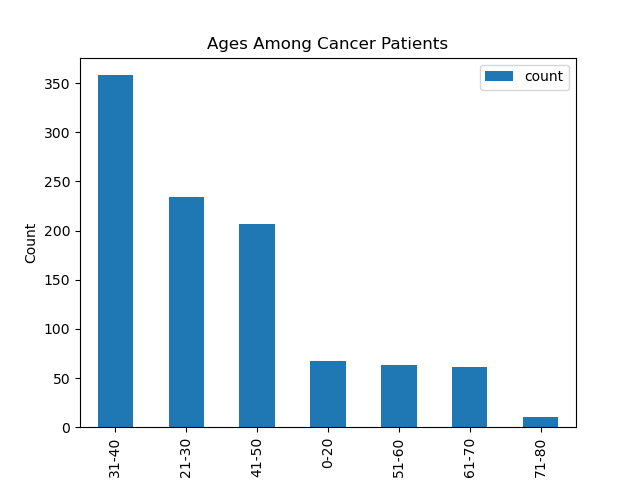
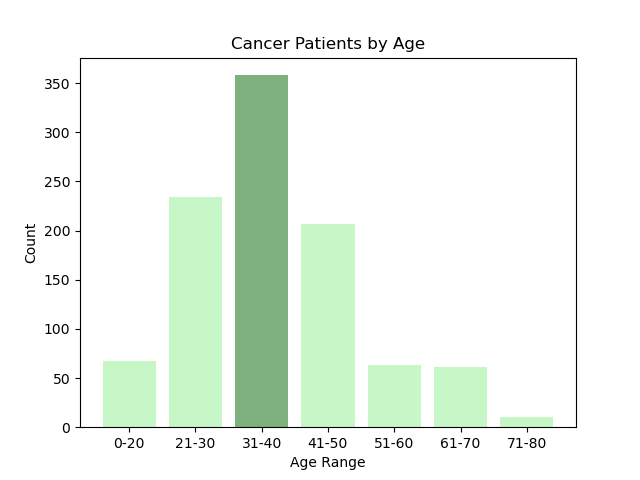
updated files

diff --git a/javascript/code.js b/javascript/code.js
@@ -1,3 +1,4 @@
+// Add Event Listener to open and read Excel sheet
 document.getElementById('fileInput').addEventListener('change', function(e) {
     var file = e.target.files[0];
     var reader = new FileReader();
@@ -9,8 +10,11 @@ document.getElementById('fileInput').addEventListener('change', function(e) {
         var firstSheet = workbook.Sheets[workbook.SheetNames[0]];
         var sheetData = XLSX.utils.sheet_to_json(firstSheet, {header: 1});
 
+        // Creating Bar Chart
+        // Extract "Age" column for data analysis
         var ages = sheetData.slice(1).map(row => row[1]);
 
+        // Create bins
         var ageBins = {
             '0-19': 0,
             '20-29': 0,
@@ -23,6 +27,7 @@ document.getElementById('fileInput').addEventListener('change', function(e) {
             '90-99': 0
         };
 
+        // Loop through the data in the "Age" Column and sort them into the bins
         ages.forEach(age => {
             if (age >= 0 && age <= 19) ageBins['0-19']++;
             else if (age >= 20 && age <= 29) ageBins['20-29']++;
@@ -35,10 +40,13 @@ document.getElementById('fileInput').addEventListener('change', function(e) {
             else if (age >= 90 && age <= 99) ageBins['90-99']++;
         });
 
+        // Extract the keys and values to prepare the data for Chart.js
         var labels = Object.keys(ageBins);
         var data = Object.values(ageBins);
 
+        // Creating the chart
         var ctx = document.getElementById('ageChart').getContext('2d')
+        // Building the Chart
         var ageChart = new Chart(ctx, {
             type: 'bar',
             data: {
@@ -57,6 +65,143 @@ document.getElementById('fileInput').addEventListener('change', function(e) {
                         beginAtZero: true
                     }
                 }
+            }
+        });
+
+        // Creating pie charts
+        // Extract the "Obesity" column for data analysis
+        var obesity = sheetData.slice(1).map(row => row[10]);
+
+        // Counting the occurrences of each obesity category
+        var obesityCounts = {};
+        
+        obesity.forEach(ob => {
+            if (obesityCounts[ob]) {
+                obesityCounts[ob]++;
+            } else {
+                obesityCounts[ob] = 1;
+            }
+        });
+
+        // Extract the keys and values to prepare the data for the chart
+        var obesityLabels = Object.keys(obesityCounts);
+        var obesityData = Object.values(obesityCounts);
+
+        // Building the pie chart
+        var obesityCtx = document.getElementById('obesityChart').getContext('2d');
+        var obesityChart = new Chart(obesityCtx, {
+            type: 'pie',
+            data: {
+                labels: obesityLabels,
+                datasets: [{
+                    label: 'Obesity',
+                    data: obesityData,
+                    backgroundColor: [
+                        'rgba(255, 99, 132, 0.2)',
+                        'rgba(54, 162, 235, 0.2)',
+                        'rgba(255, 206, 86, 0.2)',
+                        'rgba(75, 192, 192, 0.2)',
+                        'rgba(153, 102, 255, 0.2)',
+                        'rgba(255, 159, 64, 0.2)',
+                        'rgba(255, 100, 80, 0.2)'
+                    ],
+                    borderColor: [
+                        'rgba(255, 99, 132, 1)',
+                        'rgba(54, 162, 235, 1)',
+                        'rgba(255, 206, 86, 1)',
+                        'rgba(75, 192, 192, 1)',
+                        'rgba(153, 102, 255, 1)',
+                        'rgba(255, 159, 64, 1)',
+                        'rgba(255, 100, 80, 0.2)'
+                    ],
+                    borderWidth: 1
+                }]
+            }
+        });
+
+        // Extract the "Gender" column for data analysis
+        var gender = sheetData.slice(1).map(row => row[2]);
+        var genderCounts = {};
+
+        gender.forEach(g => {
+            if (genderCounts[g]) {
+                genderCounts[g]++;
+            } else {
+                genderCounts[g] = 1;
+            }
+        });
+
+        // Extract the keys and values to prepare the data for the chart
+        var genderLabels = Object.keys(genderCounts);
+        var genderData = Object.values(genderCounts);
+
+        // Building the pie chart
+        var genderCtx = document.getElementById('genderChart').getContext('2d');
+        var genderChart = new Chart (genderCtx, {
+            type: 'pie',
+            data: {
+                labels: genderLabels,
+                datasets: [{
+                    label: 'Gender',
+                    data: genderData,
+                    backgroundColor: [
+                        'rgba(255, 99, 132, 0.2)',
+                        'rgba(54, 162, 235, 0.2)'
+                    ],
+                    borderColor: [
+                        'rgba(255, 99, 132, 1)',
+                        'rgba(54, 162, 235, 1)'
+                    ],
+                    borderWidth: 1
+                }]
+            }
+        });
+
+        // Extract the "Balanced Diet" column for data analysis
+        var diet = sheetData.slice(1).map(row => row[9]);
+        var dietCounts = {};
+
+        diet.forEach(value => {
+            if (dietCounts[value]) {
+                dietCounts[value]++;
+            } else {
+                dietCounts[value] = 1;
+            }
+        });
+
+        // Extract the keys and values to prepare the data for the chart
+        var dietLabels = Object.keys(dietCounts);
+        var dietData = Object.values(dietCounts);
+
+        // Building the chart
+        var dietCtx = document.getElementById('dietChart').getContext('2d');
+        var dietChart = new Chart(dietCtx, {
+            type: 'pie',
+            data: {
+                labels: dietLabels,
+                datasets: [{
+                    label: 'Dietary Habits',
+                    data: dietData,
+                    backgroundColor: [
+                        'rgba(255, 99, 132, 0.2)',
+                        'rgba(54, 162, 235, 0.2)',
+                        'rgba(255, 206, 86, 0.2)',
+                        'rgba(75, 192, 192, 0.2)',
+                        'rgba(153, 102, 255, 0.2)',
+                        'rgba(255, 159, 64, 0.2)',
+                        'rgba(255, 100, 80, 0.2)'
+                    ],
+                    borderColor: [
+                        'rgba(255, 99, 132, 1)',
+                        'rgba(54, 162, 235, 1)',
+                        'rgba(255, 206, 86, 1)',
+                        'rgba(75, 192, 192, 1)',
+                        'rgba(153, 102, 255, 1)',
+                        'rgba(255, 159, 64, 1)',
+                        'rgba(255, 100, 80, 0.2)'
+                    ],
+                    borderWidth: 1
+                }]
             }
         });
     };

diff --git a/javascript/index.html b/javascript/index.html
@@ -4,14 +4,29 @@
         <meta charset="UTF-8">
         <meta name="viewport" content="width=device-width, initial-scale=1.0">
         <meta http-equiv="X-UA-Compatible" content="ie=edge">
-        <title>Cancer rates</title>
+        <title>Cancer Patient Analysis Dashboard</title>
+        <link rel="stylesheet" href="style.css">
         <link href="https://cdn.jsdelivr.net/npm/bootstrap@5.3.2/dist/css/bootstrap.min.css" rel="stylesheet" integrity="sha384-T3c6CoIi6uLrA9TneNEoa7RxnatzjcDSCmG1MXxSR1GAsXEV/Dwwykc2MPK8M2HN" crossorigin="anonymous">
         <script src="https://cdnjs.cloudflare.com/ajax/libs/xlsx/0.16.9/xlsx.full.min.js"></script>
         <script src="https://cdn.jsdelivr.net/npm/chart.js"></script>
     </head>
     <body>
         <input type="file" id="fileInput" />
-        <canvas id="ageChart" width="400" height="200"></canvas>
+        <div class="heading">
+            <div class="col-md-12 p-5 text-center bg-light">
+                <h1>Cancer Patient Health Analysis</h1>
+            </div>
+        </div>
+        <div class="charts-container">
+            <div class="small-charts">
+                <canvas id="obesityChart" width="75" height="75"></canvas>
+                <canvas id="genderChart" width="75" height="75"></canvas>
+                <canvas id="dietChart" width="75" height="75"></canvas>
+            </div>
+            <div class="large-chart">
+                <canvas id="ageChart" width="800" height="400"></canvas>
+            </div>
+        </div>
         <script src="code.js"></script>
     </body>
 </html>

diff --git a/javascript/style.css b/javascript/style.css
@@ -1,0 +1,31 @@
+body {
+    font-family: Arial, sans-serif;
+    display: flex;
+    flex-direction: column;
+    align-items: center;
+}
+
+.charts-container {
+    display: flex;
+    flex-direction: column;
+    align-items: center;
+    width: 100%;
+    max-width: 800px
+}
+
+.small-charts {
+    display: flex;
+    justify-content: center;
+    width: 100%;
+    max-width: 400px;
+}
+
+.small-charts canvas {
+    margin: 0 10px;
+}
+
+.large-chart {
+    margin-top: 20px;
+    width: 100%;
+    max-width: 800px;
+}
